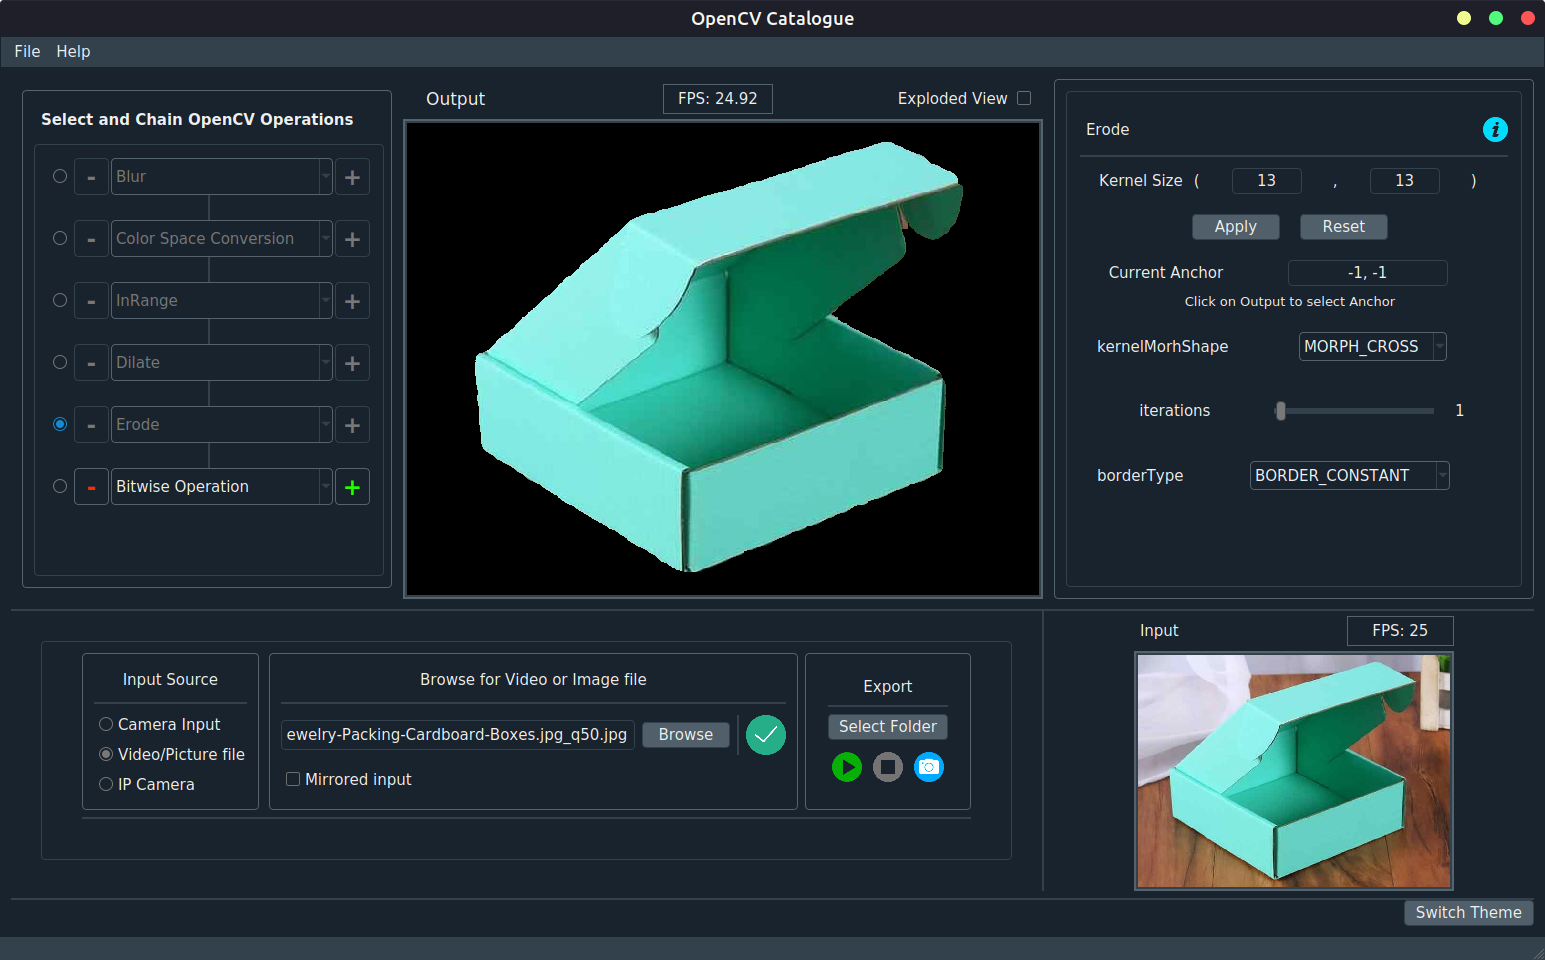
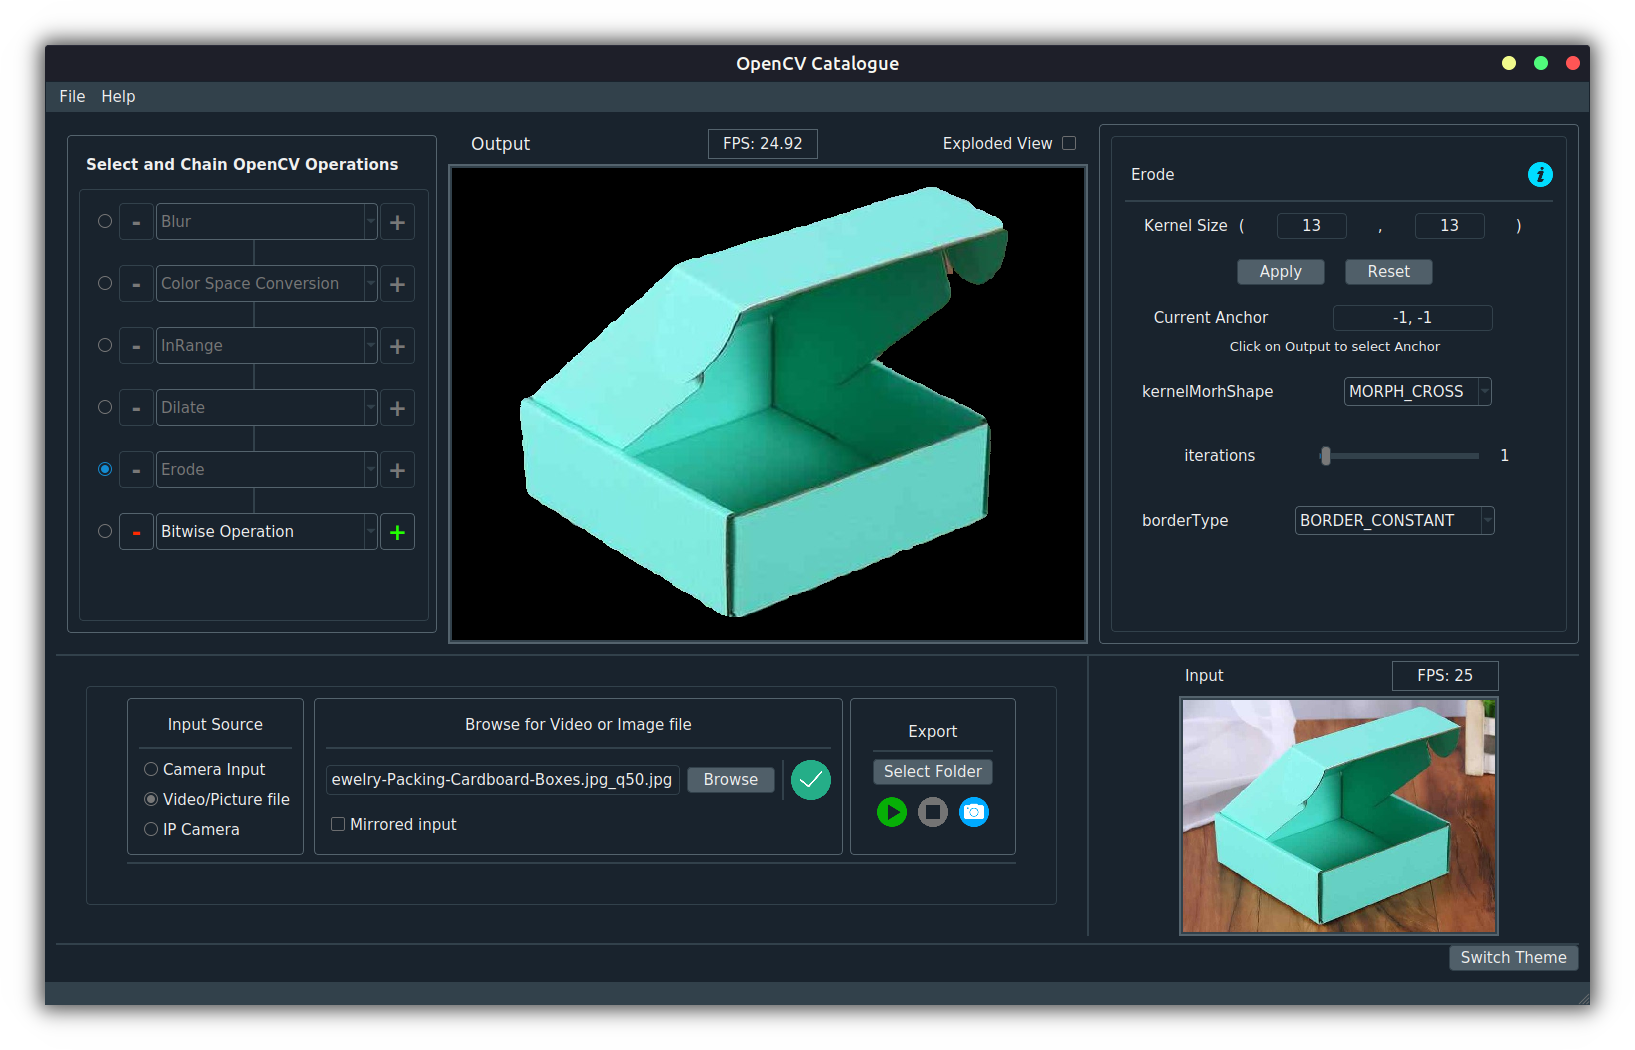
Enhanced some screenshot images

diff --git a/README.md b/README.md
@@ -158,12 +158,13 @@ chmod +x <name of .AppImage File>
 
 ### 2. Select and Chain OpenCV Operations
 <p align="center">
-    <img src="media/screenshot_menu.png" alt="Chain_Ops" width="1000" >
+    <img src="media/screenshot_menu.png" alt="Chain_Ops" width="1020" >
   </a>
 </p>
 <p align="center">
   <em>Select OpenCV Operation from the "Examples" Menu</em>
 </p>
+
 
 In the *Select and Chain OpenCV Operations box*(left side), click on:
 
@@ -197,12 +198,13 @@ In the *Select and Chain OpenCV Operations box*(left side), click on:
 ### 5. OpenCV Catalogue GUI summary
 
 <p align="center">
-    <img src="media/picture_gui.png" alt="Gallery" width="800" >
+    <img src="media/picture_gui.png" alt="Gallery" width="850" >
   </a>
 </p>
 <p align="center">
   <em>Convenient GUI for parameter value adjustment</em>
 </p>
+
 
 - Each OpenCV operation has it's own parameter control GUI
 - **Changing parameters** values reflect the changes in **real time**
